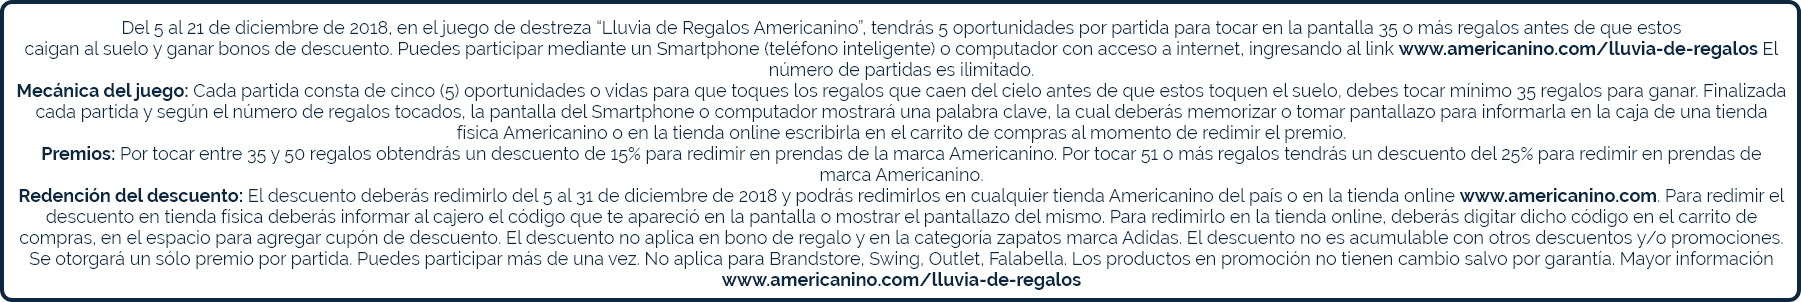
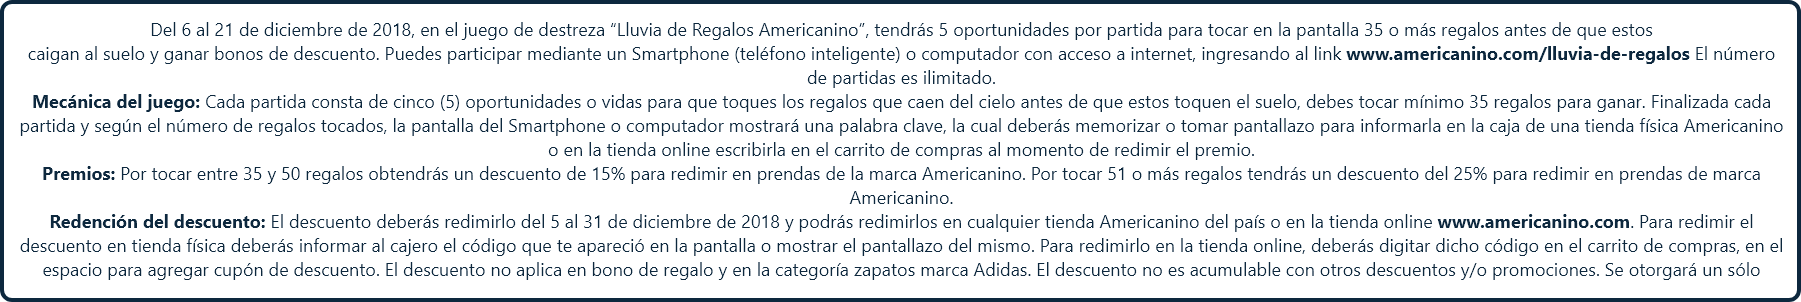
cambios

Changed region(s): [[0.0, 0.0596, 0.995, 0.596], [0.0, 0.6258, 0.995, 0.9536]]

diff --git a/terminos-y-condiciones.html b/terminos-y-condiciones.html
@@ -34,10 +34,10 @@
         <p>La actividad comercial en adelante la “Actividad”, es realizada por la sociedad Comodín S.A.S., titular de la marca “Americanino”, identificada con el NIT. 800069933-6 y domiciliada en la ciudad de Medellín (Antioquia), en adelante la “Compañía”.</p>
         <br>
         <h2>2. VIGENCIA DEL JUEGO.</h2>
-        <p>La Actividad iniciará el día Miércoles 05 de diciembre de 2018 a las 12:00am y finalizará el día Viernes 21 de diciembre de 2018 a las 11:59pm.</p>
+        <p>La Actividad iniciará el día Jueves 06 de diciembre de 2018 a las 12:00am y finalizará el día Viernes 21 de diciembre de 2018 a las 11:59pm.</p>
         <br>
         <h2>3. VIGENCIA DE REDENCIÓN.</h2>
-        <p>La Actividad tendrá vigencia de redención del día Miércoles 05 de diciembre de 2018 hasta el día lunes 31 de diciembre de 2018.</p>
+        <p>La Actividad tendrá vigencia de redención del día Jueves 06 de diciembre de 2018 hasta el día lunes 31 de diciembre de 2018.</p>
         <br>
         <h2>4. ÁMBITO DE APLICACIÓN.</h2>
         <p>La Actividad es válida para todas las tiendas de Americanino del país y Tienda Online <a class="text-red" href="https://www.americanino.com">www.americanino.com</a> </p>
@@ -54,7 +54,7 @@
        <h2>6. MECÁNICA DEL CONCURSO.</h2>
        <ul>
          <li> <p>6.1. Descripción general</p> </li>
-         <p>A partir del 05 de diciembre de 2018 a las 12:00 am, y hasta el miércoles 21 de diciembre de 2018 a las 11:59pm, la Compañía lanzará en la siguiente URL <a class="text-red" href="https://www.americanino.com/lluvia-de-regalos">www.americanino.com/lluvia-de-regalos</a> que se comunicará a través de las redes de la marca, mailing y SMS, un juego en Navidad de habilidad y destreza <a class="text-red" href="#img01">(imagen No. 1)</a>, que consiste en tocar (dar clic) el mayor número de regalos posible que caen en la pantalla, para lo cual se tendrán 5 oportunidades o vidas por partida. En la pantalla aparecerán regalos cayendo del cielo, los cuales deben de ser tocados (darles clic) por el participante en la pantalla, antes de que caigan al suelo y así sucesivamente. El participante deberá tocar el mayor número de regalos posibles para poder recibir el descuento correspondiente al número de regalos tocados. El juego no tiene límite de tiempo, sin embargo, el jugador tiene 5 oportunidades para ganar, ya que los regalos van aumentando la velocidad al caer, por ende la dificultad para ser tocados (darles clic) por parte del participante.
+         <p>A partir del 06 de diciembre de 2018 a las 12:00 am, y hasta el miércoles 21 de diciembre de 2018 a las 11:59pm, la Compañía lanzará en la siguiente URL <a class="text-red" href="https://www.americanino.com/lluvia-de-regalos">www.americanino.com/lluvia-de-regalos</a> que se comunicará a través de las redes de la marca, mailing y SMS, un juego en Navidad de habilidad y destreza <a class="text-red" href="#img01">(imagen No. 1)</a>, que consiste en tocar (dar clic) el mayor número de regalos posible que caen en la pantalla, para lo cual se tendrán 5 oportunidades o vidas por partida. En la pantalla aparecerán regalos cayendo del cielo, los cuales deben de ser tocados (darles clic) por el participante en la pantalla, antes de que caigan al suelo y así sucesivamente. El participante deberá tocar el mayor número de regalos posibles para poder recibir el descuento correspondiente al número de regalos tocados. El juego no tiene límite de tiempo, sin embargo, el jugador tiene 5 oportunidades para ganar, ya que los regalos van aumentando la velocidad al caer, por ende la dificultad para ser tocados (darles clic) por parte del participante.
          </p>
          <br>
          <p>Si el jugador toca entre 35 y 50 regalos dentro de cada partida, obtendrá un bono del 15% de descuento; si el jugador toca 51 o más regalos dentro de cada partida, accederá a un bono del 25% de descuento. Aplican términos y condiciones sobre los bonos, de acuerdo con lo estipulado <a class="text-red" href="#08">en el numeral 8 de este documento.</a></p>
@@ -67,7 +67,7 @@
          <li> <h2>6.2. Procedimiento</h2> </li>
          <p>Para participar se deben tener en cuenta las siguientes consideraciones:</p>
           <ul>
-            <li> <p>6.2.1. La vigencia de la Actividad será desde el día miércoles 5 de diciembre de 2018, a las 12:00 m., y hasta el 21 de diciembre de 2018 a las 11:59pm.</p> </li>
+            <li> <p>6.2.1. La vigencia de la Actividad será desde el día jueves 06 de diciembre de 2018, a las 12:00 m., y hasta el 21 de diciembre de 2018 a las 11:59pm.</p> </li>
             <li> <p>6.2.2. El participante deberá acceder a la URL donde se publicará el juego, desde un celular o computador con acceso a Internet.</p> </li>
             <li> <p>6.2.3. Los participantes podrán participar en un número indefinido de veces y podrán ganar uno o más premios en diferentes partidas.</p> </li>
           </ul>
@@ -82,7 +82,7 @@
          <li> <p>8.2. Redención de los bonos de descuento: Los bonos de descuento deberán redimirse durante la vigencia la Actividad y podrán ser redimidos en cualquier tienda física Americanino del país o en la tienda online <a class="text-red" href="https://www.americanino.com">www.americanino.com</a>  Para redimir el descuento en tienda física el ganador deberá informar al cajero el código que le apareció en la pantalla o mostrar el pantallazo de éste. Para redimirlo en la tienda online, dicho código deberá digitarlo en el carrito de compras en el espacio para agregar cupón de descuento. El bono de descuento aplica sobre el valor total de la factura. El descuento no aplica en bono de regalo ni en la categoría zapatos marca Adidas. El descuento no es acumulable con otros descuentos y/o promociones. Se otorgará un sólo premio por partida. Las personas pueden participar más de una vez. No aplica para Brandstore, Swing, Outlet, Falabella. Los productos en promoción no tienen cambio salvo por garantía. En caso de garantía se reconocerá el valor pagado por la(s) prenda(s). Mayor información
           <a class="text-red" href="https://www.americanino.com/lluvia-de-regalos">www.americanino.com/lluvia-de-regalos</a>
          </p></li>
-         <li> <p>Vigencia del bono: Del 5 al 31 de diciembre de 2018.</p> </li>
+         <li> <p>Vigencia del bono: Del 06 al 31 de diciembre de 2018.</p> </li>
        </ul>
        <br>
        <h2>9. ACEPTACIÓN DEL REGLAMENTO/EXIMENTES DE RESPONSABILIDAD.</h2>

diff --git a/index.html b/index.html
@@ -6,15 +6,6 @@
   <meta name="country" content="COL" />
   <meta name="currency" content="$" />
 
-  <!--vtex:template id="multiplica-commonScripts" /-->
-  <!-- POR FAVOR IMPLEMENTAR EL CSS TAL CUAL SE ENCUENTRA AQUI -->
-  <style type="text/css">
-    html, body, div, iframe { margin:0; padding:0; height:100vh; }
-    iframe { display:block; width:100%; border:none; }
-    .ajax-content-loader{display: none;}
-  </style>
-<!-- BORRAR COMENTARIO ANTES DE SUBIR -->
-
   <title>Lluvia de regalos - Americanino Tienda online</title>
   <meta http-equiv="Content-Type" content="text/html;charset=utf-8" />
   <meta name="description" content="Jeans AMERICANINO, denim, jeans para hombre y mujer de la reconocida marca italiana con una propuesta de ropa joven." />
@@ -56,7 +47,7 @@
         </div> -->
       </div>
       <div class="col-12 pt-2">
-        <h2 class="text-center">Vigencia del 02 de Diciembre al 21 de Diciembre de 2018</h2>
+        <h2 class="text-center">Vigencia del 06 de Diciembre al 21 de Diciembre de 2018</h2>
       </div>
       <div class="col-12 pt-1">
         <a target="_blank" href="https://www.americanino.com/"><h1 class="text-center">WWW.AMERICANINO.COM</h1></a>

diff --git a/game01/index.html b/game01/index.html
@@ -23,5 +23,15 @@
     <script src="./bundle.js"></script>
 
   </head>
-  <body><div id="landscape"></div><div div="game"></div></body>
+  <body>
+    <div class="home">
+      <a href="../index.html"><h3 class="text-white">home</h3></a>
+    </div>
+    <div class="tienda">
+      <a href="../index.html"><h3 class="text-white">tienda</h3></a>
+    </div>
+    <!-- <div class="position-absolute">
+      <h4 class="text-white">online</h4>
+    </div> -->
+    <div id="landscape"></div><div div="game"></div></body>
 </html>

diff --git a/game01/css/index.css b/game01/css/index.css
@@ -53,3 +53,21 @@ body {
     background-position: center center;
     display:block;
 }
+
+.tienda{
+	position: absolute;
+	top: 90%;
+  left: 90%;
+  background-color: white;
+  width: 48px;
+  height: 48px;
+}
+
+.home{
+	position: absolute;
+	top: 90%;
+  right: 90%;
+  background-color: white;
+  width: 48px;
+  height: 48px;
+}
